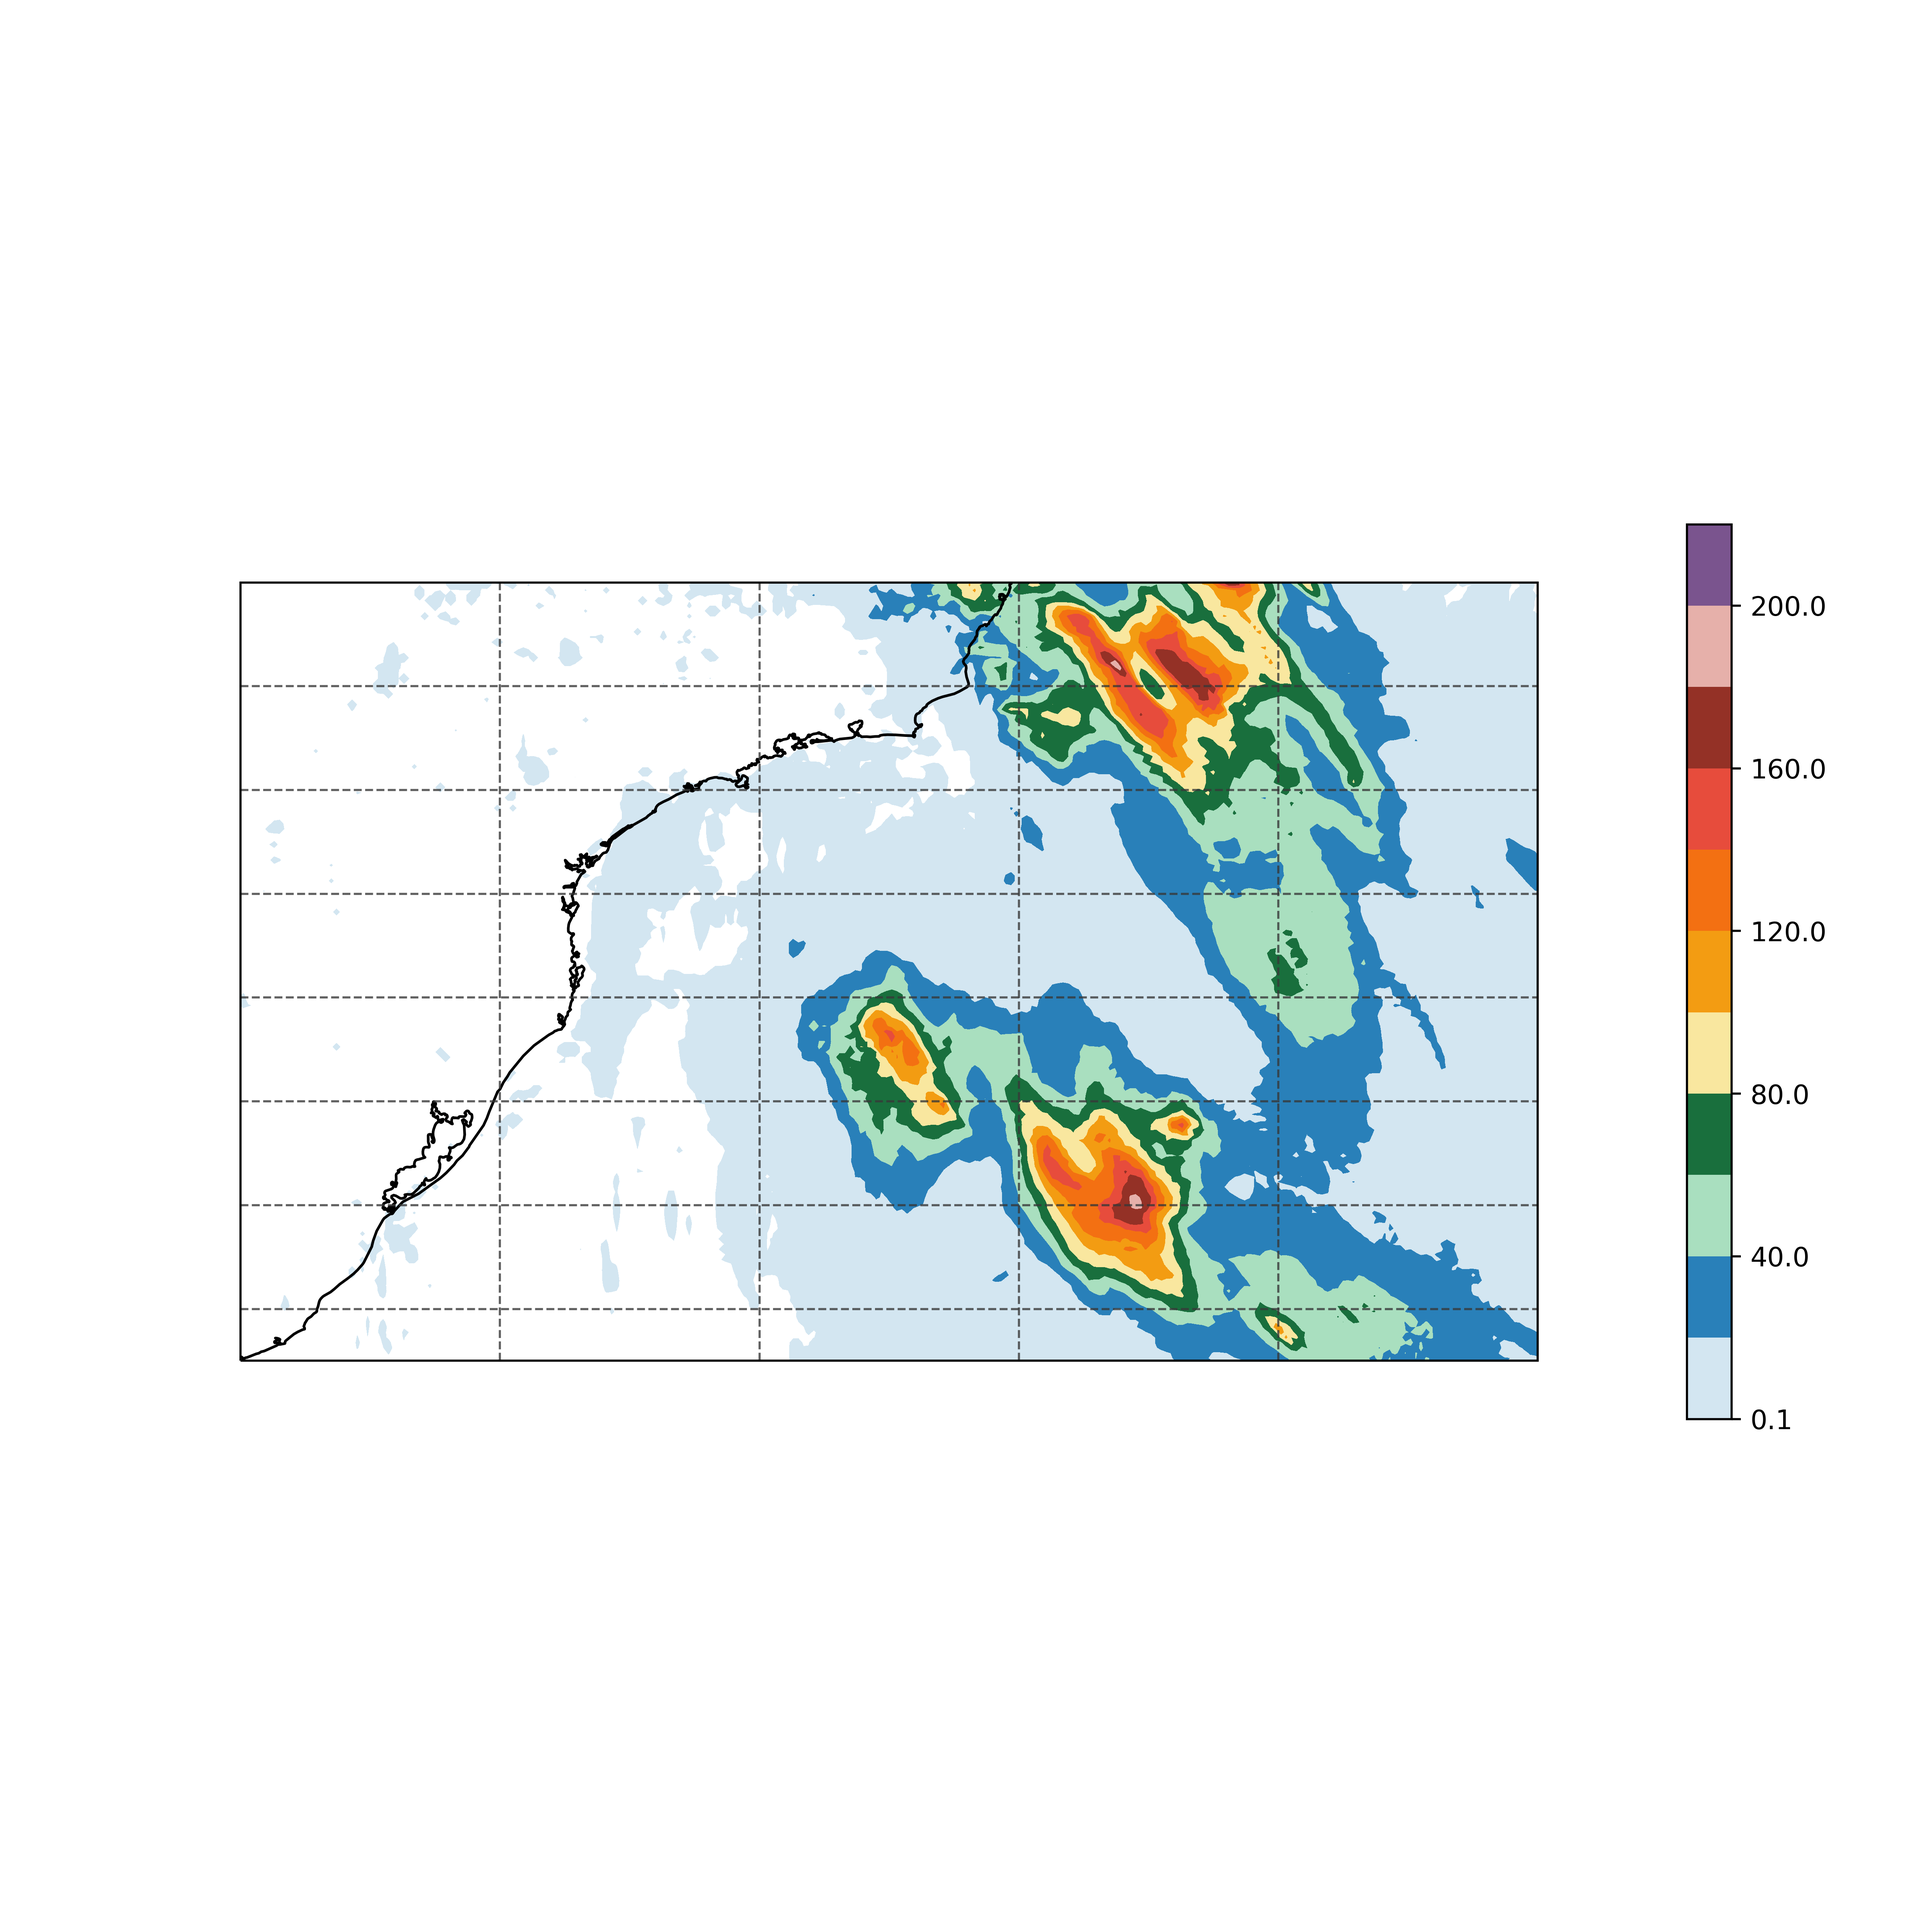
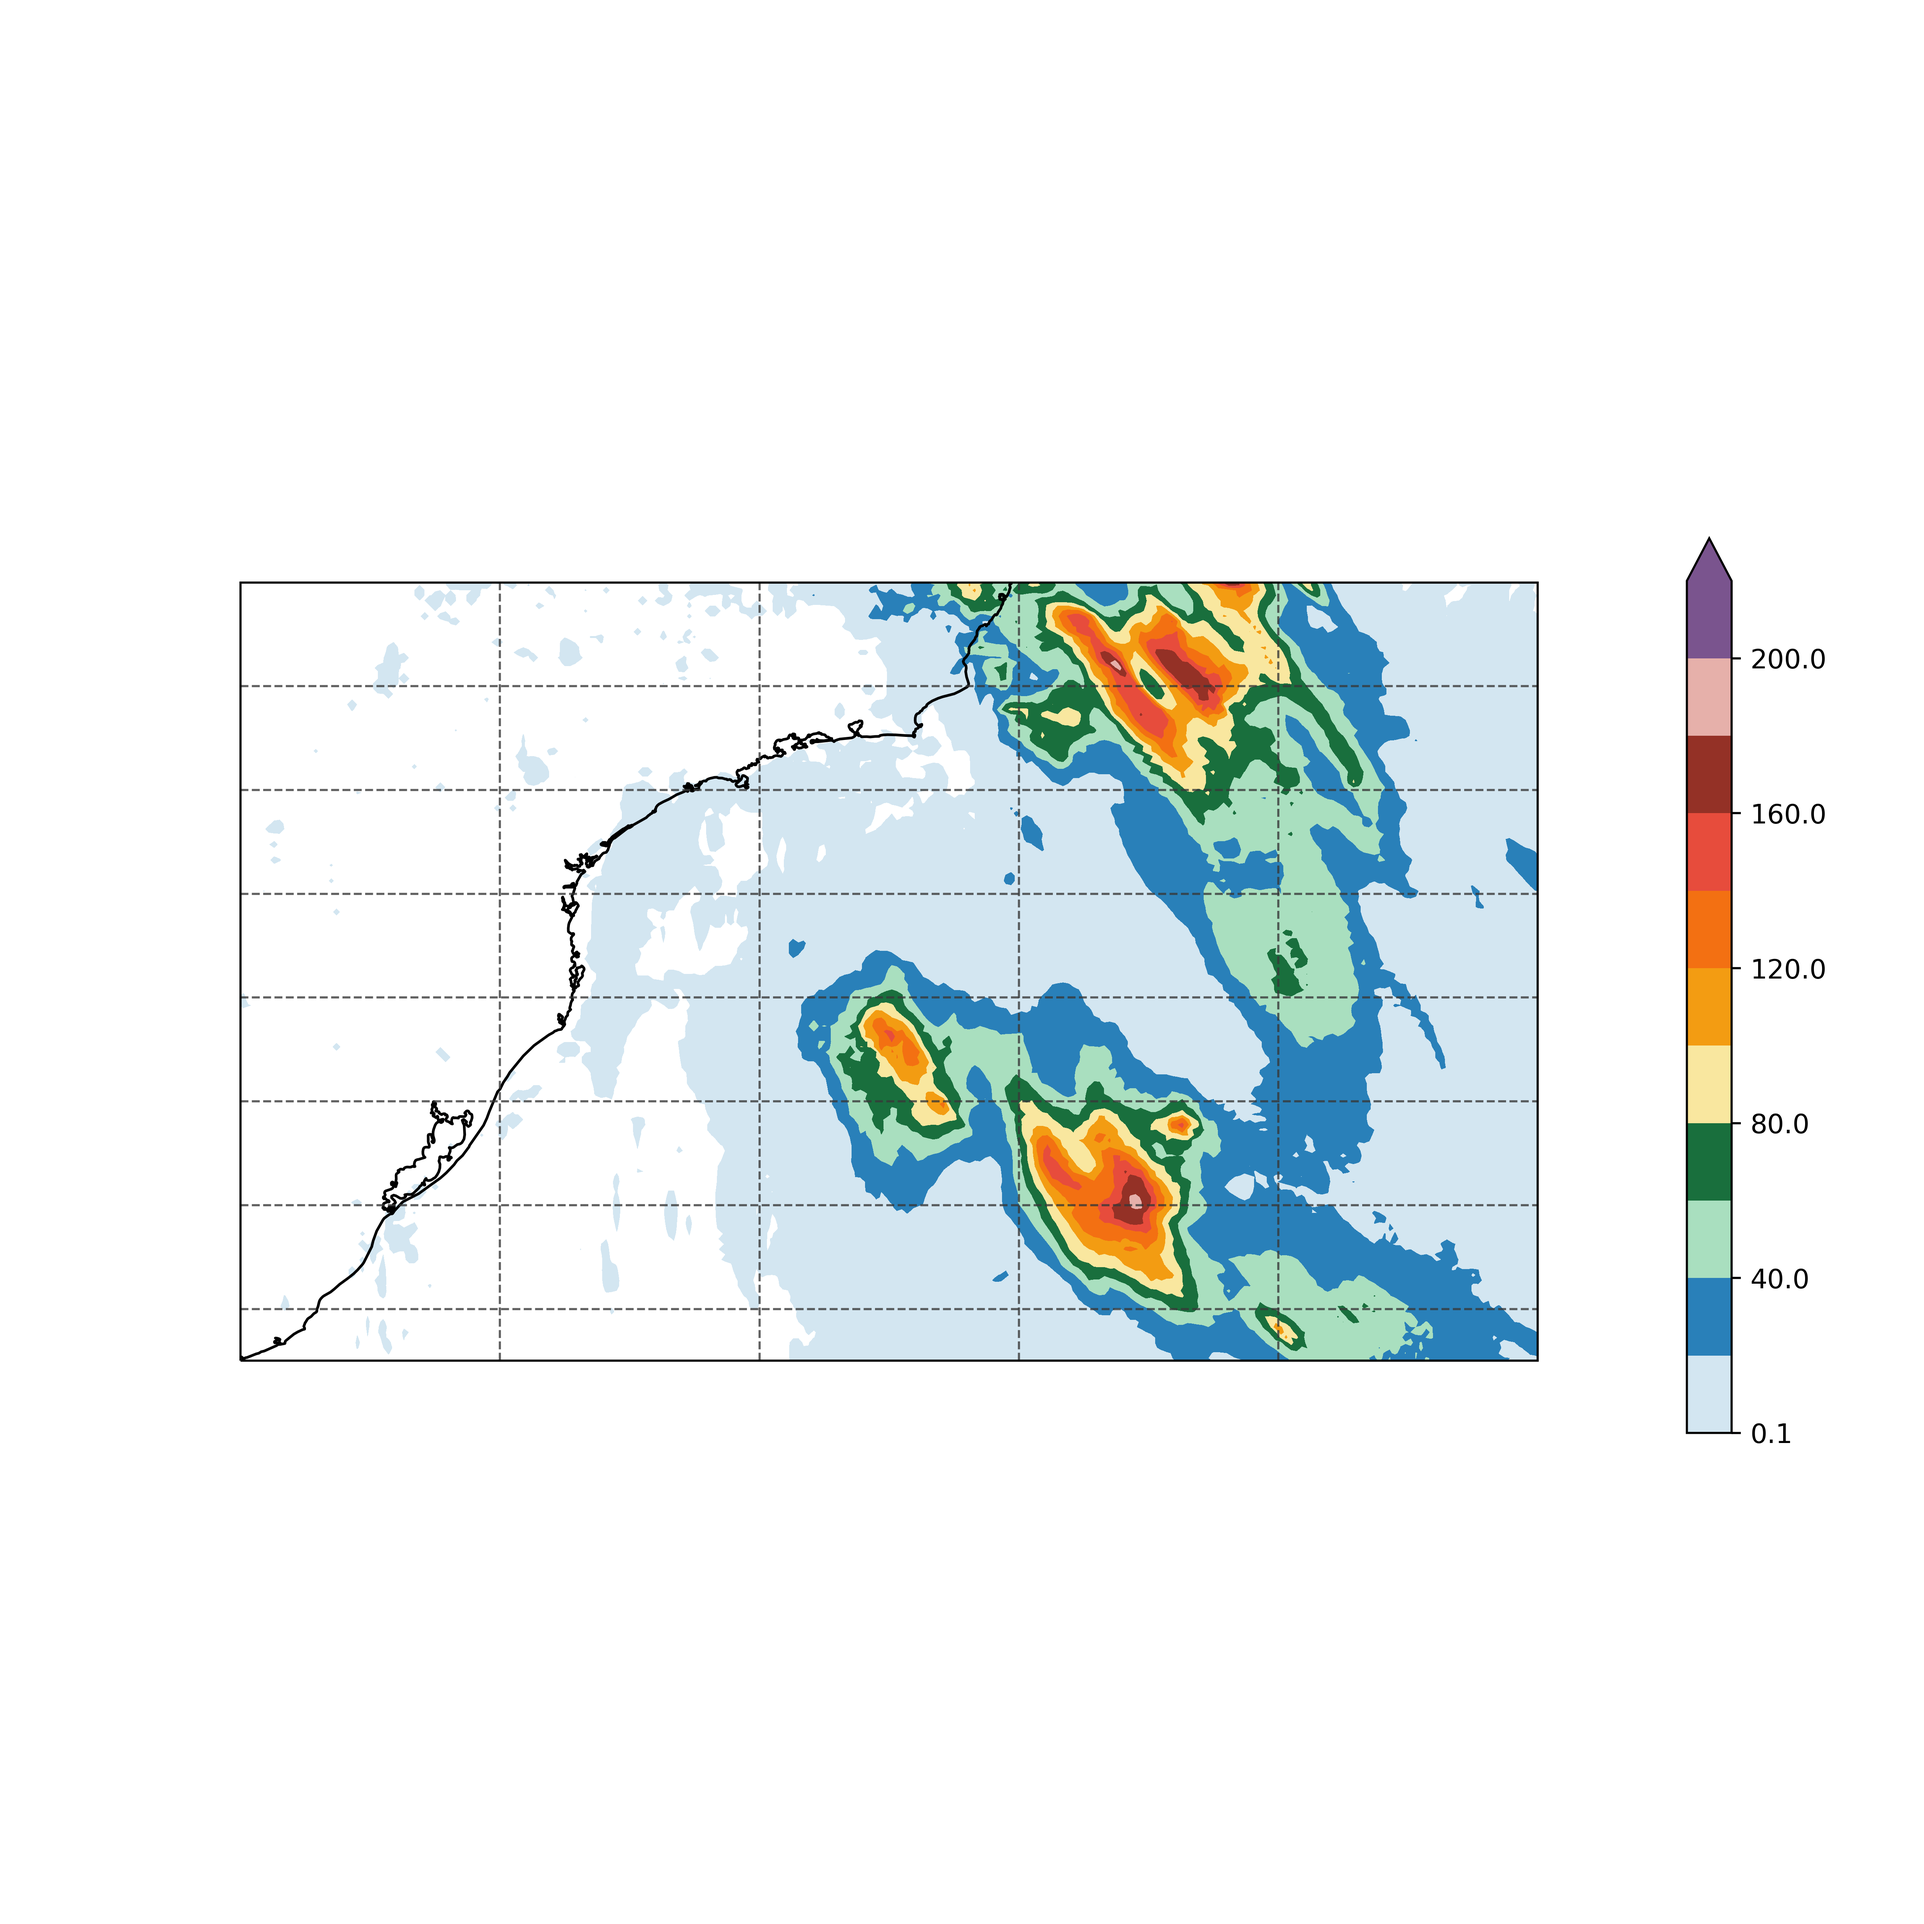
Update: extend

Changed region(s): [[0.8736, 0.2496, 0.936, 0.624], [0.8736, 0.6552, 0.936, 0.7488]]

diff --git a/src/validate_precipitation.py b/src/validate_precipitation.py
@@ -6,7 +6,7 @@
 #    By: Danilo <danilo.oceano@gmail.com>           +#+  +:+       +#+         #
 #                                                 +#+#+#+#+#+   +#+            #
 #    Created: 2023/02/08 09:52:10 by Danilo            #+#    #+#              #
-#    Updated: 2023/07/11 16:49:03 by Danilo           ###   ########.fr        #
+#    Updated: 2023/07/11 16:50:31 by Danilo           ###   ########.fr        #
 #                                                                              #
 # **************************************************************************** #
 
@@ -397,7 +397,7 @@ def plot_imerg_precipitation(imerg_accprec, imerg_file, figures_directory):
 
     cf = ax.contourf(imerg_accprec.lon, imerg_accprec.lat,
                     imerg_accprec, cmap=cmap_precipitation,
-                    levels=prec_levels)
+                    levels=prec_levels, extend='max')
     
     fig.colorbar(cf, ax=ax, fraction=0.03, pad=0.1)
     ax.coastlines(zorder = 1)
